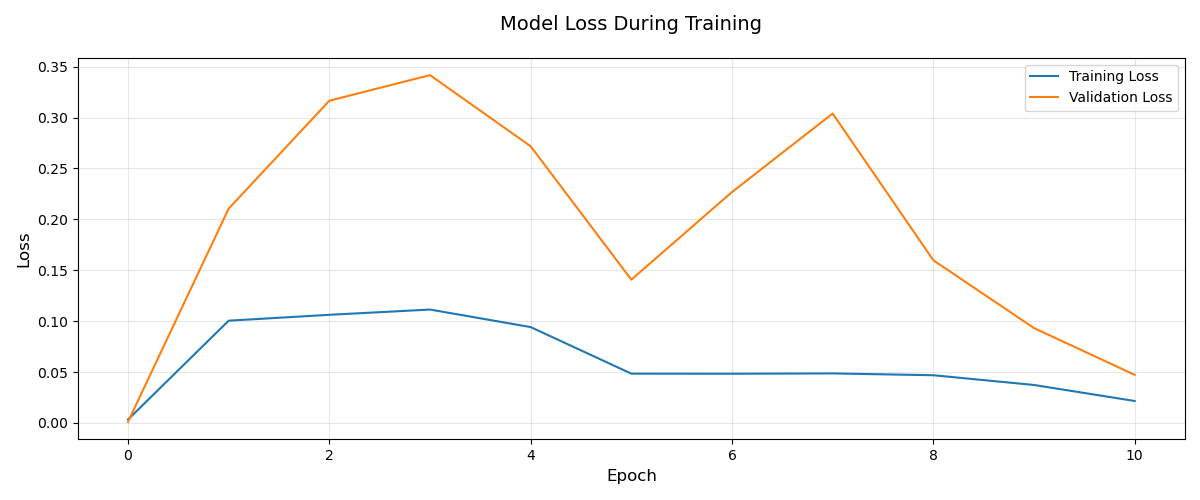
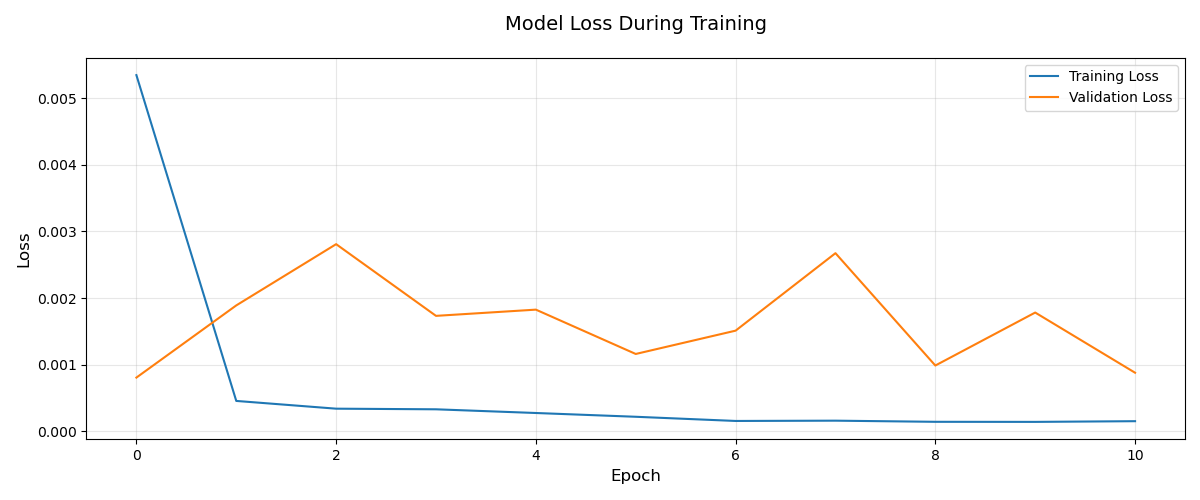
Add files via upload

diff --git a/main2_py.py b/main2_py.py
@@ -4,7 +4,6 @@ from sklearn.preprocessing import MinMaxScaler
 import tensorflow as tf
 from tensorflow.keras.models import Model
 from tensorflow.keras.layers import Input, Dense, LayerNormalization, MultiHeadAttention, Dropout, GlobalAveragePooling1D
-from tensorflow.keras.layers import LSTM, Concatenate
 from sklearn.metrics import mean_squared_error
 import math
 import matplotlib.pyplot as plt
@@ -40,7 +39,8 @@ def calculate_rmse_numba(y_true, y_pred):
     return np.sqrt(np.mean((y_true - y_pred) ** 2))
 
 # Load and prepare the dataset
-df = yf.download('SPY', start='2000-01-01', end='2025-01-01')
+#file_path = 'TSLA.csv'
+df = yf.download('TSLA', start='2020-01-01', end='2024-01-01')
 data = df[['Close']].values
 scaler = MinMaxScaler(feature_range=(0, 1))
 data_scaled = scaler.fit_transform(data)
@@ -48,7 +48,7 @@ data_scaled = scaler.fit_transform(data)
 start_time = time.time()
 # Parameters
 time_step = 100
-training_size = int(len(data_scaled) * 0.9)
+training_size = int(len(data_scaled) * 0.67)
 test_size = len(data_scaled) - training_size
 train_data = data_scaled[0:training_size,:]
 test_data = data_scaled[training_size:len(data_scaled),:]
@@ -64,7 +64,8 @@ X_test = X_test.reshape(X_test.shape[0], X_test.shape[1], 1)
 # Transformer Block
 def transformer_encoder(inputs, head_size, num_heads, ff_dim, dropout=0):
     """
-    Standard transformer encoder block with improved parameters.
+    Standard transformer encoder block.
+    Not optimized with Numba as it uses TensorFlow operations.
     """
     x = LayerNormalization(epsilon=1e-6)(inputs)
     x = MultiHeadAttention(
@@ -81,30 +82,12 @@ def transformer_encoder(inputs, head_size, num_heads, ff_dim, dropout=0):
     x = Dense(inputs.shape[-1])(x)
     return x + res
 
-# LSTM Block
-def lstm_block(inputs, units, dropout=0):
-    """
-    LSTM block with residual connection
-    """
-    x = LSTM(units, return_sequences=True)(inputs)
-    x = Dropout(dropout)(x)
-    return x
-
-# Hybrid Model Definition
+# Model Definition with improved parameters
 inputs = Input(shape=(X_train.shape[1], X_train.shape[2]))
-
-# Transformer branch
-transformer_output = transformer_encoder(inputs, head_size=256, num_heads=4, ff_dim=4, dropout=0.1)
-
-# LSTM branch
-lstm_output = lstm_block(inputs, units=128, dropout=0.1)
-
-# Combine branches
-combined = Concatenate()([transformer_output, lstm_output])
-x = GlobalAveragePooling1D(data_format='channels_first')(combined)
+x = transformer_encoder(inputs, head_size=256, num_heads=4, ff_dim=4, dropout=0.1)
+x = GlobalAveragePooling1D(data_format='channels_first')(x)
 x = Dropout(0.1)(x)
-x = Dense(32, activation="relu")(x)
-x = Dense(16, activation="relu")(x)
+x = Dense(20, activation="relu")(x)
 outputs = Dense(1, activation="linear")(x)
 
 model = Model(inputs=inputs, outputs=outputs)
@@ -116,32 +99,25 @@ model.compile(
 # Model Summary
 model.summary()
 
-# Train the model with early stopping and reduced learning rate on plateau
+# Train the model with early stopping
 early_stopping = tf.keras.callbacks.EarlyStopping(
     monitor='val_loss',
-    patience=10,
-    restore_best_weights=True
-)
-
-reduce_lr = tf.keras.callbacks.ReduceLROnPlateau(
-    monitor='val_loss',
-    factor=0.2,
     patience=5,
-    min_lr=0.0001
+    restore_best_weights=True
 )
 
 history = model.fit(
     X_train, y_train,
     validation_data=(X_test, y_test),
     epochs=50,
-    batch_size=32,
-    callbacks=[early_stopping, reduce_lr],
+    batch_size=64,
+    callbacks=[early_stopping],
     verbose=1
 )
 
 # Make predictions
-train_predict = model.predict(X_train, batch_size=32)
-test_predict = model.predict(X_test, batch_size=32)
+train_predict = model.predict(X_train, batch_size=64)
+test_predict = model.predict(X_test, batch_size=64)
 
 # Inverse transform predictions
 train_predict = scaler.inverse_transform(train_predict)
@@ -163,14 +139,14 @@ print(f"Test RMSE: {test_rmse}")
 end_time = time.time()
 print(f"Training time: {end_time - start_time} seconds")
 
-# Plotting the results
+# Plotting the results with improved visualization
 trainPredictPlot = np.empty_like(data_scaled)
 trainPredictPlot[:, :] = np.nan
 trainPredictPlot[time_step:len(train_predict)+time_step, :] = train_predict
 
 testPredictPlot = np.empty_like(data_scaled)
 testPredictPlot[:, :] = np.nan
-testPredictPlot[len(train_predict)+time_step:len(train_predict)+time_step+len(test_predict), :] = test_predict
+testPredictPlot[len(train_predict)+(time_step*2)+1:len(data_scaled)-1, :] = test_predict
 
 plt.figure(figsize=(15, 7))
 plt.plot(scaler.inverse_transform(data_scaled), 
@@ -185,7 +161,7 @@ plt.plot(testPredictPlot,
          label='Testing Predictions', 
          alpha=0.6,
          linewidth=2)
-plt.title('SPY Stock Price Prediction using Hybrid Transformer-LSTM Model',
+plt.title('TESLA Stock Price Prediction using Transformer (Numba Optimized)',
          fontsize=14,
          pad=20)
 plt.xlabel('Time', fontsize=12)
